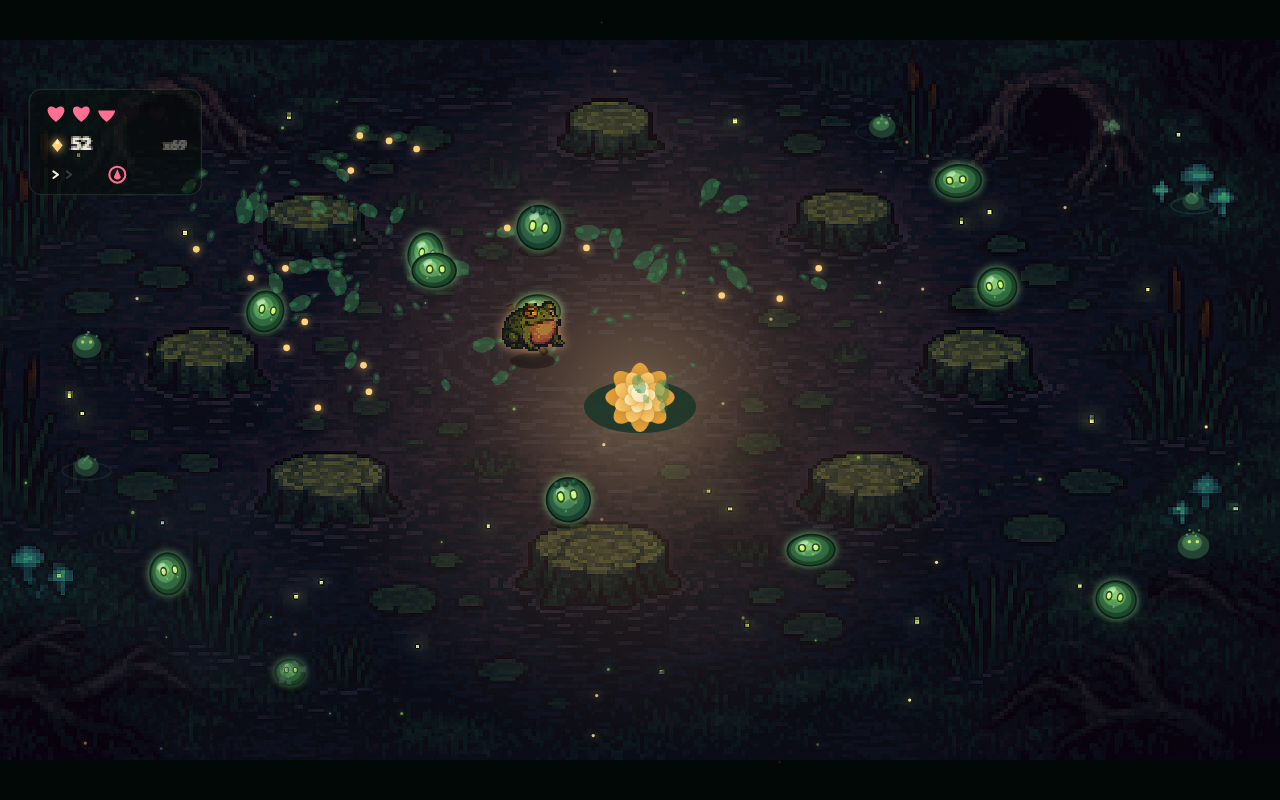
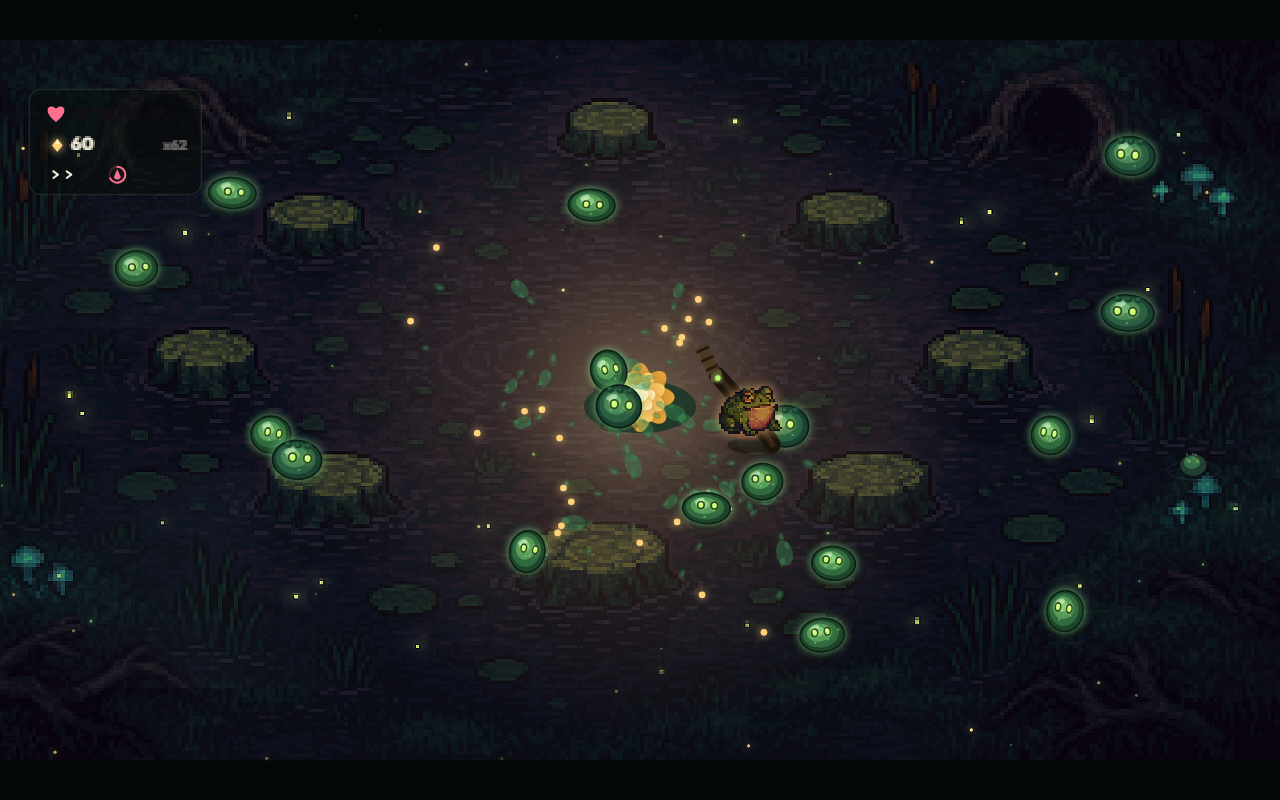
R3 polish: readable katana, swing lunge, earlier enemy variety
- Katana readability: sheathed back-katana scaled 2x to the bigger sprite so the
  hilt/tsuba clear the shoulder; swing blade widened + brighter steel core so the
  up-aim pose reads as a katana, not a thin beam.
- Frog strike pose: pull-back anticipation on windup + forward lunge on the active
  swing so the hit reads as the frog's own action (critics: connect kill to swing).
- Enemy variety earlier: spikeblob from 12s (was 25), gloopa from 28s (was 45) so
  the first-minute horde isn't one clone.
23 tests green, typecheck clean, headless QA no errors.

diff --git a/src/render/render.ts b/src/render/render.ts
@@ -532,9 +532,19 @@ function drawFrog(ctx: CanvasRenderingContext2D, w: World, fx: number, fy: numbe
   const lean = (moving ? Math.sin(f.hopPhase * Math.PI * 2) * 0.05 : 0)
     + Math.max(-0.1, Math.min(0.1, f.vx / 3200));
 
+  // strike motion: pull back on windup (anticipation), thrust forward on the active swing
+  // (follow-through) so the hit reads as the frog's own action (critics: connect kill to swing).
+  let lungeX = 0, lungeY = 0;
+  if (atk.phase === 'active' || atk.phase === 'follow') {
+    const amt = (atk.phase === 'active' ? 0.55 : 0.28) * FROG_RADIUS;
+    lungeX = Math.cos(atk.angle) * amt; lungeY = Math.sin(atk.angle) * amt;
+  } else if (atk.phase === 'windup' || atk.phase === 'heavywindup' || atk.phase === 'heavyhold') {
+    lungeX = -Math.cos(atk.angle) * FROG_RADIUS * 0.2; lungeY = -Math.sin(atk.angle) * FROG_RADIUS * 0.2;
+  }
+
   const flicker = f.iframesT > 0 && Math.floor(time * 24) % 2 === 0;
   ctx.save();
-  ctx.translate(fx, fy - hop);
+  ctx.translate(fx + lungeX, fy - hop + lungeY);
   if (lean) ctx.rotate(lean);
   if (flicker) ctx.globalAlpha = 0.45;
 
@@ -561,9 +571,9 @@ function drawFrog(ctx: CanvasRenderingContext2D, w: World, fx: number, fy: numbe
   else if (blinking && img('frogBlink')) frogImg = img('frogBlink');
   else frogImg = img('frog');
 
-  // sheathed KATANA on the back (Ian: "a samurai sword on the back — dope"). Drawn behind
-  // the body so the wrapped handle rises over the shoulder.
-  if (frogImg) drawBackKatana(ctx, FROG_RADIUS);
+  // sheathed KATANA on the back (Ian: "a samurai sword on the back — dope"). Scaled to the
+  // bigger sprite so the wrapped handle + tsuba clearly rise over the shoulder (critics: invisible).
+  if (frogImg) drawBackKatana(ctx, FROG_RADIUS * 2.05);
 
   if (frogImg) {
     const h = FROG_RADIUS * 4.8;                        // bigger hero silhouette (critics: ~1.6x up)
@@ -722,19 +732,23 @@ function drawSwordAt(ctx: CanvasRenderingContext2D, w: World, time: number) {
   // REED KATANA (design/4 Weapons + reference pack): a curved single-edged swamp katana —
   // steel-green blade with a glowing lime edge, round tsuba, cloth-wrapped tsuka.
   const bo = -9;                               // blade curves upward toward the tip
-  const spine = (): void => { ctx.moveTo(13, -3); ctx.quadraticCurveTo(L * 0.55, -6 + bo * 0.4, L, bo); };
-  const edge = (): void => { ctx.moveTo(14, 4); ctx.quadraticCurveTo(L * 0.55, 2 + bo * 0.4, L - 2, bo + 2); };
+  // wider blade so it reads as a KATANA, not a thin beam, even pointing up (critics)
+  const spine = (): void => { ctx.moveTo(13, -5); ctx.quadraticCurveTo(L * 0.55, -9 + bo * 0.4, L, bo); };
+  const edge = (): void => { ctx.moveTo(14, 7); ctx.quadraticCurveTo(L * 0.55, 4 + bo * 0.4, L - 2, bo + 2); };
   // blade body
   ctx.beginPath();
-  ctx.moveTo(13, -3); ctx.quadraticCurveTo(L * 0.55, -6 + bo * 0.4, L, bo);
-  ctx.lineTo(L - 2, bo + 2); ctx.quadraticCurveTo(L * 0.55, 2 + bo * 0.4, 14, 5);
+  ctx.moveTo(13, -5); ctx.quadraticCurveTo(L * 0.55, -9 + bo * 0.4, L, bo);
+  ctx.lineTo(L - 2, bo + 2); ctx.quadraticCurveTo(L * 0.55, 4 + bo * 0.4, 14, 7);
   ctx.closePath();
-  ctx.fillStyle = '#838d6e'; ctx.fill();
+  ctx.fillStyle = '#8f9a78'; ctx.fill();
+  // brighter steel core band down the blade
+  ctx.strokeStyle = '#aeb894'; ctx.lineWidth = 2; ctx.beginPath();
+  ctx.moveTo(15, 0); ctx.quadraticCurveTo(L * 0.55, -2 + bo * 0.4, L - 4, bo + 1); ctx.stroke();
   // glowing lime cutting edge (hamon)
-  ctx.strokeStyle = 'rgba(150,255,120,0.4)'; ctx.lineWidth = 3.2; ctx.beginPath(); edge(); ctx.stroke();
-  ctx.strokeStyle = '#e2f4b6'; ctx.lineWidth = 1.6; ctx.beginPath(); edge(); ctx.stroke();
+  ctx.strokeStyle = 'rgba(150,255,120,0.45)'; ctx.lineWidth = 3.6; ctx.beginPath(); edge(); ctx.stroke();
+  ctx.strokeStyle = '#e2f4b6'; ctx.lineWidth = 2; ctx.beginPath(); edge(); ctx.stroke();
   // dark spine
-  ctx.strokeStyle = '#39472a'; ctx.lineWidth = 1.6; ctx.beginPath(); spine(); ctx.stroke();
+  ctx.strokeStyle = '#39472a'; ctx.lineWidth = 2; ctx.beginPath(); spine(); ctx.stroke();
   // round tsuba guard
   ctx.fillStyle = '#2a2018'; ctx.beginPath(); ctx.ellipse(11, 0, 3, 7.5, 0, 0, Math.PI * 2); ctx.fill();
   ctx.fillStyle = '#b6ff6a'; ctx.shadowColor = '#8fff5a'; ctx.shadowBlur = 5;

diff --git a/src/sim/spawner.ts b/src/sim/spawner.ts
@@ -17,8 +17,8 @@ function targetCount(elapsed: number): number {
 function pickKind(w: World): EnemyKind {
   const t = w.elapsed;
   const r = w.rng();
-  if (t > 45 && r < 0.12) return 'gloopa';
-  if (t > 25 && r < 0.28) return 'spikeblob';
+  if (t > 28 && r < 0.14) return 'gloopa';      // variety earlier so the horde isn't one clone (critics)
+  if (t > 12 && r < 0.3) return 'spikeblob';
   return 'blobbit';
 }
 
